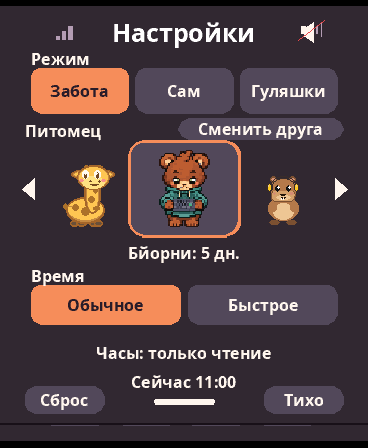
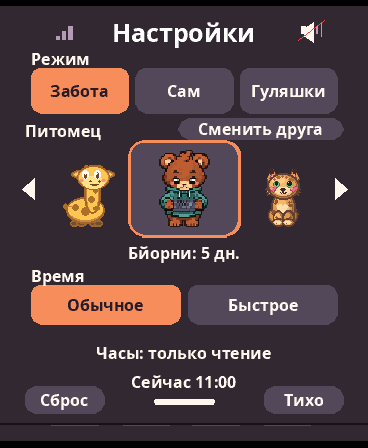
Show Ryska and her original game poses in the Russian gallery

Changed region(s): [[0.7174, 0.375, 0.837, 0.5312]]

diff --git a/README.md b/README.md
@@ -14,7 +14,7 @@
   <a href="CREDITOS.md">Благодарности и лицензии</a>
 </p>
 
-> **Статус:** русская прошивка, 12 питомцев и экспериментальный порт AMOLED 1.8 V1 находятся в [PR #2](https://github.com/Medvedolog/medvegoshi/pull/2). В `main` пока остаётся базовая прошивка на основе Capigoshi для IPS 1,83″. Порт V1 ещё не проверен на физической плате; автоустановка V1 отключена. Не прошивайте AMOLED образом IPS.
+> **Статус:** русская прошивка, 13 питомцев и экспериментальный порт AMOLED 1.8 V1 находятся в [PR #2](https://github.com/Medvedolog/medvegoshi/pull/2). В `main` пока остаётся базовая прошивка на основе Capigoshi для IPS 1,83″. Порт V1 ещё не проверен на физической плате; автоустановка V1 отключена. Не прошивайте AMOLED образом IPS.
 
 ## Русский интерфейс
 
@@ -30,7 +30,7 @@
 
 ## Скриншоты
 
-**[Полная галерея: все 12 питомцев](docs/SCREENSHOTS_RU.md).** В галерее есть дневные и ночные сцены, прогулки и русские реплики. Открой картинку, чтобы увидеть интерфейс в полном размере.
+**[Полная галерея: все 13 питомцев](docs/SCREENSHOTS_RU.md).** В галерее есть дневные и ночные сцены, прогулки и русские реплики. Открой картинку, чтобы увидеть интерфейс в полном размере.
 
 **Бйорни** — медвежонок-программист. Он печатает на клавиатуре, бегает в обе стороны, прыгает и радуется. Для игры добавлены отдельные позы сна, голода, кормления, болезни и испуга.
 
@@ -38,9 +38,11 @@
 
 На **AMOLED V1** крупная сцена рисуется прямо в области 368×435, без растягивания старого кадра. Меню, диалоги и метки игрового экрана рисуются в родном разрешении пропорциональным **Noto Sans Bold** без засечек: буквы держат общую базовую линию, края сглажены, а цифры одинаковой ширины, чтобы часы не «прыгали». Глифы хранятся в компактном растровом виде, TTF на устройство не нужен. На **IPS** для кириллицы используется компактный растровый шрифт на основе **DejaVu Sans Mono**. [Шрифт AMOLED и лицензия OFL](https://github.com/Medvedolog/medvegoshi/blob/feature/russian-game-ui/ports/v1_menu_font.py) · [Лицензия шрифта IPS](https://github.com/Medvedolog/medvegoshi/blob/feature/russian-game-ui/docs/FONT_LICENSE.md).
 
-### 12 питомцев
+### 13 питомцев
 
-Девять из Capigoshi: **Капи, Слон, Утка, Осьминог, Попугай, Карамелька, Кот, Пришелец и Лягушонок**. Карамелька остаётся щенком: висячие уши, светлая мордочка и карамельные тени. У неё теперь отдельные движения хвоста, ушей и лап; прежнее сохранение остаётся совместимым. В MedveGoshi к ним добавились **Пип, Жирафик и Бйорни**. У каждого своё сохранение: можно сменить питомца, а потом вернуться к прежнему прогрессу. Новые персонажи подключаются через [модульный каталог Zoo](https://github.com/Medvedolog/medvegoshi/tree/feature/russian-game-ui/zoo).
+Девять из Capigoshi: **Капи, Слон, Утка, Осьминог, Попугай, Карамелька, Кот, Пришелец и Лягушонок**. Карамелька остаётся щенком: висячие уши, светлая мордочка и карамельные тени. У неё теперь отдельные движения хвоста, ушей и лап; прежнее сохранение остаётся совместимым. В MedveGoshi к ним добавились **Пип, Жирафик, Бйорни и Рыська**. У каждого своё сохранение: можно сменить питомца, а потом вернуться к прежнему прогрессу. Новые персонажи подключаются через [модульный каталог Zoo](https://github.com/Medvedolog/medvegoshi/tree/feature/russian-game-ui/zoo).
+
+**Рыська** — песочная рысь по детскому рисунку: зелёные глаза, кисточки, сердечки на щёчках и светлое сердце на груди. [Рыська крупным планом](docs/SCREENSHOTS_RU.md#рыська-крупным-планом).
 
 ## Откуда проект
 

diff --git a/docs/SCREENSHOTS_RU.md b/docs/SCREENSHOTS_RU.md
@@ -1,6 +1,6 @@
 # Скриншоты MedveGoshi
 
-[← На главную](../README.md) · [Карамелька в движении](#карамелька-в-движении) · [Бйорни крупным планом](#бйорни-крупным-планом)
+[← На главную](../README.md) · [Карамелька в движении](#карамелька-в-движении) · [Рыська крупным планом](#рыська-крупным-планом) · [Бйорни крупным планом](#бйорни-крупным-планом)
 
 Все кадры сняты в эмуляторе **AMOLED V1, 368×448** из русской сборки [PR #2](https://github.com/Medvedolog/medvegoshi/pull/2). Реплики, часы и метки полей набраны пропорциональным Noto Sans Bold в родном разрешении, как и меню. В крупном режиме сцена рисуется прямо в 368×435 внутри панели, без растягивания кадра 240×284. Карамелька получила новый облик щенка: длинные ушки, светлая мордочка, карамельные тени и мелкие блики на AMOLED. Слева игровой момент, справа тот же питомец в меню «Настройки». Подписи поясняют сцену; реплики в кавычках взяты с экрана. Нажми на кадр, чтобы увеличить.
 
@@ -18,6 +18,14 @@
 | **10. Пип**<br>Самостоятельный режим<br>«17:00» | <a href="img/medvegoshi-ru/gallery/pip-play.png"><img src="img/medvegoshi-ru/gallery/pip-play.png" width="174" alt="Пип — Самостоятельный режим"></a> | <a href="img/medvegoshi-ru/gallery/pip-settings.png"><img src="img/medvegoshi-ru/gallery/pip-settings.png" width="174" alt="Пип в меню Настройки"></a> |
 | **11. Жирафик**<br>Взрослый на прогулке<br>«Поле 1» | <a href="img/medvegoshi-ru/gallery/girafa-play.png"><img src="img/medvegoshi-ru/gallery/girafa-play.png" width="174" alt="Жирафик — Взрослый на прогулке"></a> | <a href="img/medvegoshi-ru/gallery/girafa-settings.png"><img src="img/medvegoshi-ru/gallery/girafa-settings.png" width="174" alt="Жирафик в меню Настройки"></a> |
 | **12. Бйорни**<br>Вечерние гуляшки<br>«Поле 1» | <a href="img/medvegoshi-ru/gallery/bjorni-play.png"><img src="img/medvegoshi-ru/gallery/bjorni-play.png" width="174" alt="Бйорни — Вечерние гуляшки"></a> | <a href="img/medvegoshi-ru/gallery/bjorni-settings.png"><img src="img/medvegoshi-ru/gallery/bjorni-settings.png" width="174" alt="Бйорни в меню Настройки"></a> |
+| **13. Рыська**<br>Дневной уход | <a href="img/medvegoshi-ru/gallery/ryska-play.png"><img src="img/medvegoshi-ru/gallery/ryska-play.png" width="174" alt="Рыська в игре"></a> | <a href="img/medvegoshi-ru/gallery/ryska-settings.png"><img src="img/medvegoshi-ru/gallery/ryska-settings.png" width="174" alt="Рыська в меню Настройки"></a> |
+
+## Рыська крупным планом
+
+Круглая мордочка, сердечки на щёчках и большое сердце на груди перенесены из детского рисунка. Песочная шерсть, пятнышки, тёмные кисточки на ушах и короткий хвост отличают Рыську от обычного котёнка. На картинке три позы настоящего игрового спрайта.
+
+[![Рыська знакомится, радуется и дремлет](img/medvegoshi-ru/ryska-preview.png)](img/medvegoshi-ru/ryska-preview.png)
+
 
 ## Карамелька в движении
 
